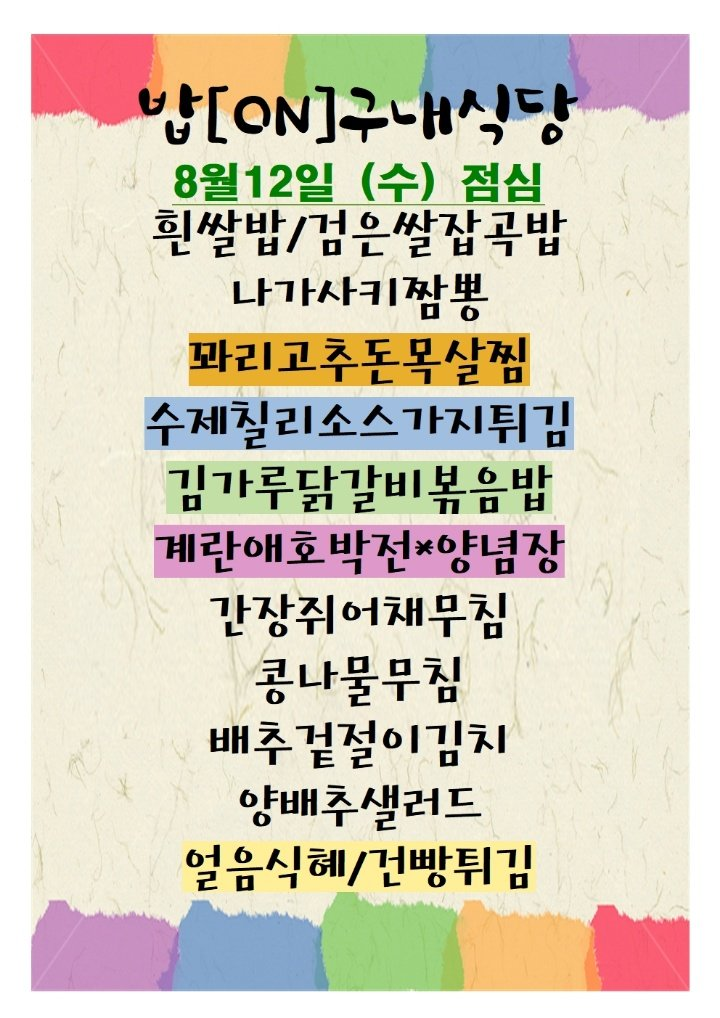
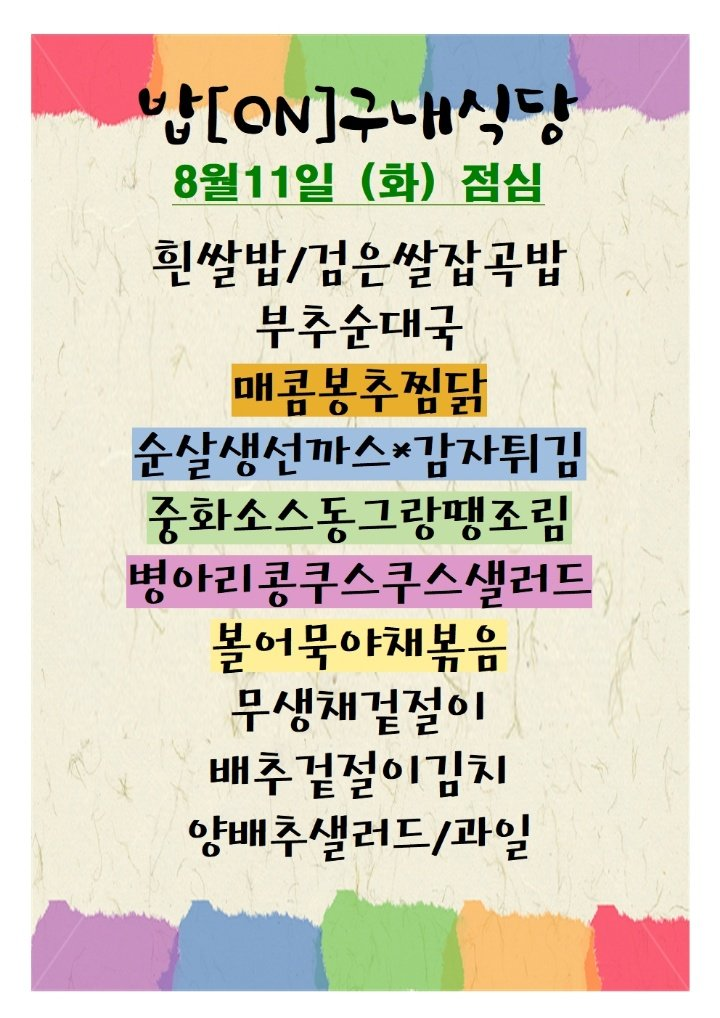
Update menu board assets

Changed region(s): [[0.1528, 0.1523, 0.825, 0.8831]]

diff --git a/menu-today/index.html b/menu-today/index.html
@@ -209,7 +209,7 @@
 
     <section class="meta-bar">
       <div class="meta-card"><div class="meta-label">기준 날짜</div><div class="meta-value">2026년 8월 11일 화요일</div></div>
-      <div class="meta-card"><div class="meta-label">최종 가져온 시간</div><div class="meta-value">2026-08-11 10:18:02</div></div>
+      <div class="meta-card"><div class="meta-label">최종 가져온 시간</div><div class="meta-value">2026-08-11 10:33:25</div></div>
       <div class="meta-card"><div class="meta-label">확인 완료</div><div class="meta-value">9개 식당</div></div>
       <div class="meta-card"><div class="meta-label">준비중</div><div class="meta-value">3개 채널</div></div>
     </section>
@@ -245,7 +245,7 @@
             <div class="sub">가산 어반워크2</div>
           </div>
         </div>
-        <div class="menu-inline-image"><img src="./images/babon.png" alt="밥(온) 구내식당 식단 이미지"></div><div class="info-note">오늘 메뉴 미수집 상태입니다.</div>
+        <div class="menu-inline-image"><img src="./images/babon.png" alt="밥(온) 구내식당 식단 이미지"></div><ul><li>휠쌀밥 / 끔은쌀잡곡밥</li><li>부주순대국</li><li>매콤봉주찜닭</li><li>순살생선까스*깜자튀김</li><li>병아리콩쿠스 eI 스샐러드</li><li>봉어묵야채볶음</li><li>무생재겉절이</li><li>배주끝설이짐지</li><li>양배추샐러드 / 과일</li><li>린쌍밥 / 검은쌀잡</li><li>부주순대국 국</li></ul>
       </article>
 
       <article class="restaurant-card">

diff --git a/guro-menu/index.html b/guro-menu/index.html
@@ -32,7 +32,7 @@
   </header>
   <section class="meta">
     <div><small>기준 날짜</small><strong>2026년 8월 11일 화요일</strong></div>
-    <div><small>최종 갱신</small><strong>2026-08-11 10:18:16</strong></div>
+    <div><small>최종 갱신</small><strong>2026-08-11 10:33:39</strong></div>
     <div><small>등록 식당</small><strong>5개</strong></div>
   </section>
   <div class="notice">공개 카카오 채널의 메뉴 이미지를 자동 수집하고 OCR로 정리합니다. 텍스트에 오타가 있을 수 있으니 식단 이미지를 함께 확인해 주세요.</div>
